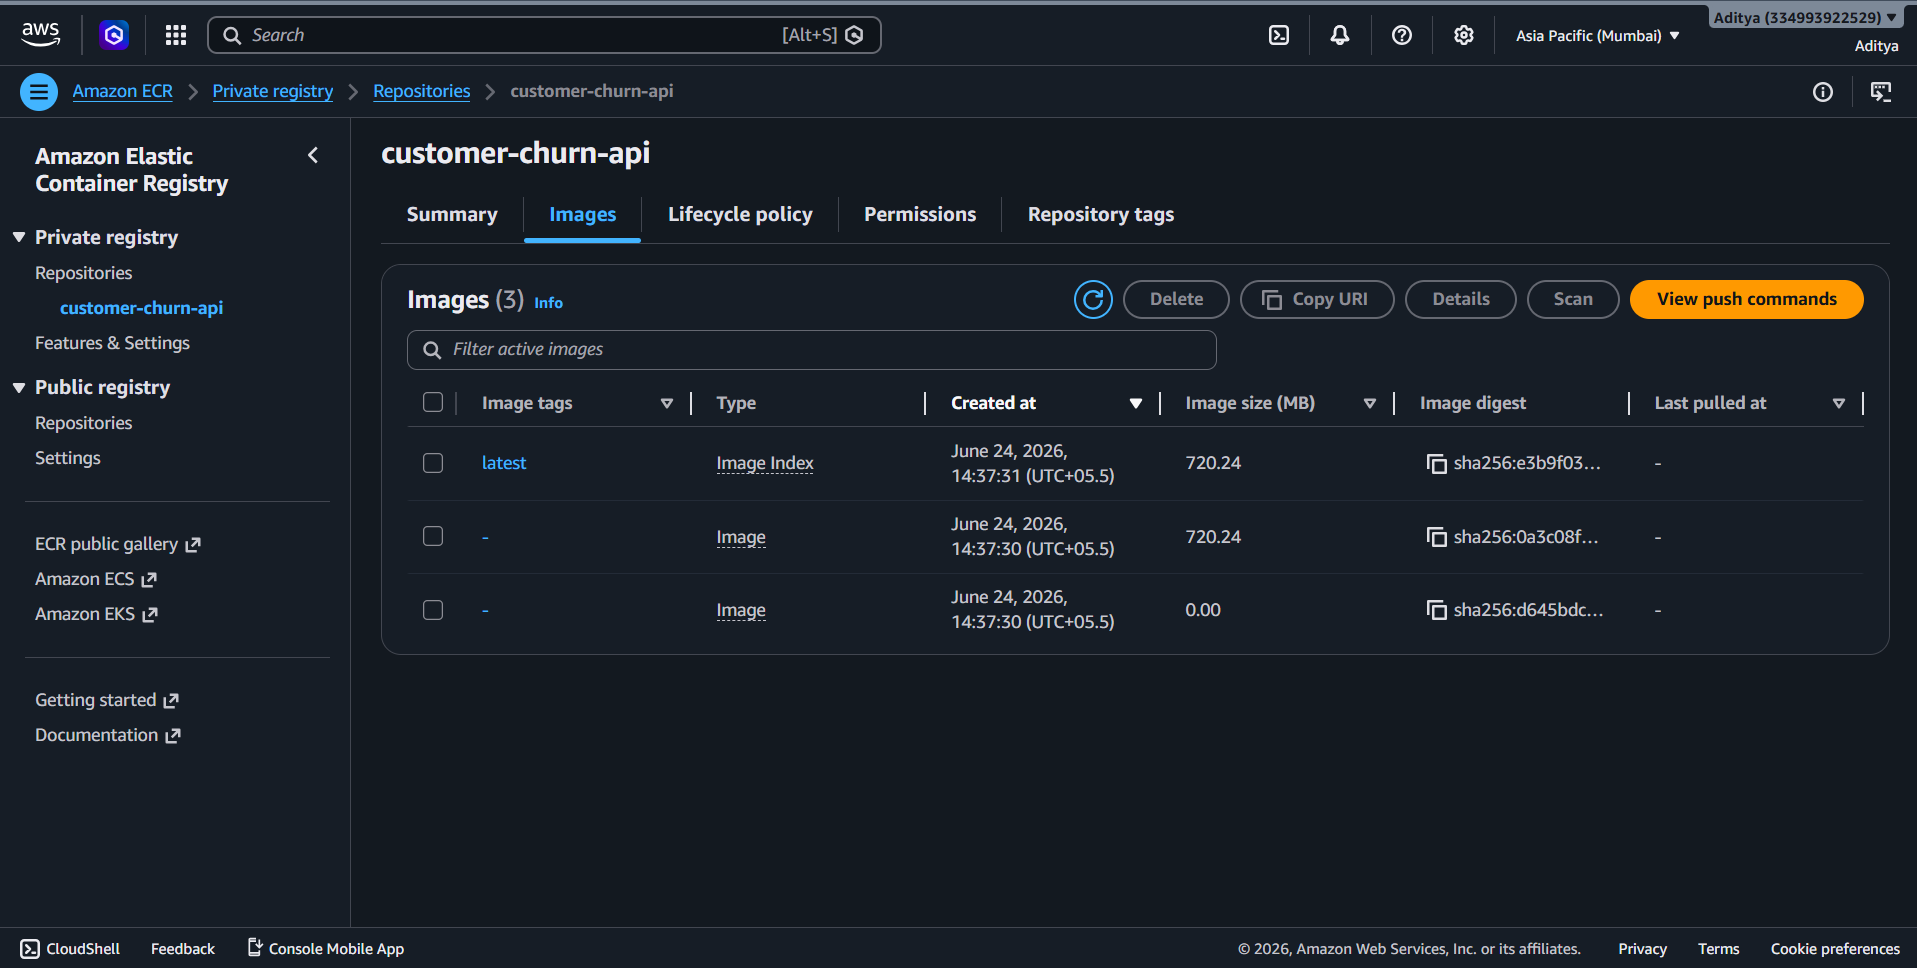
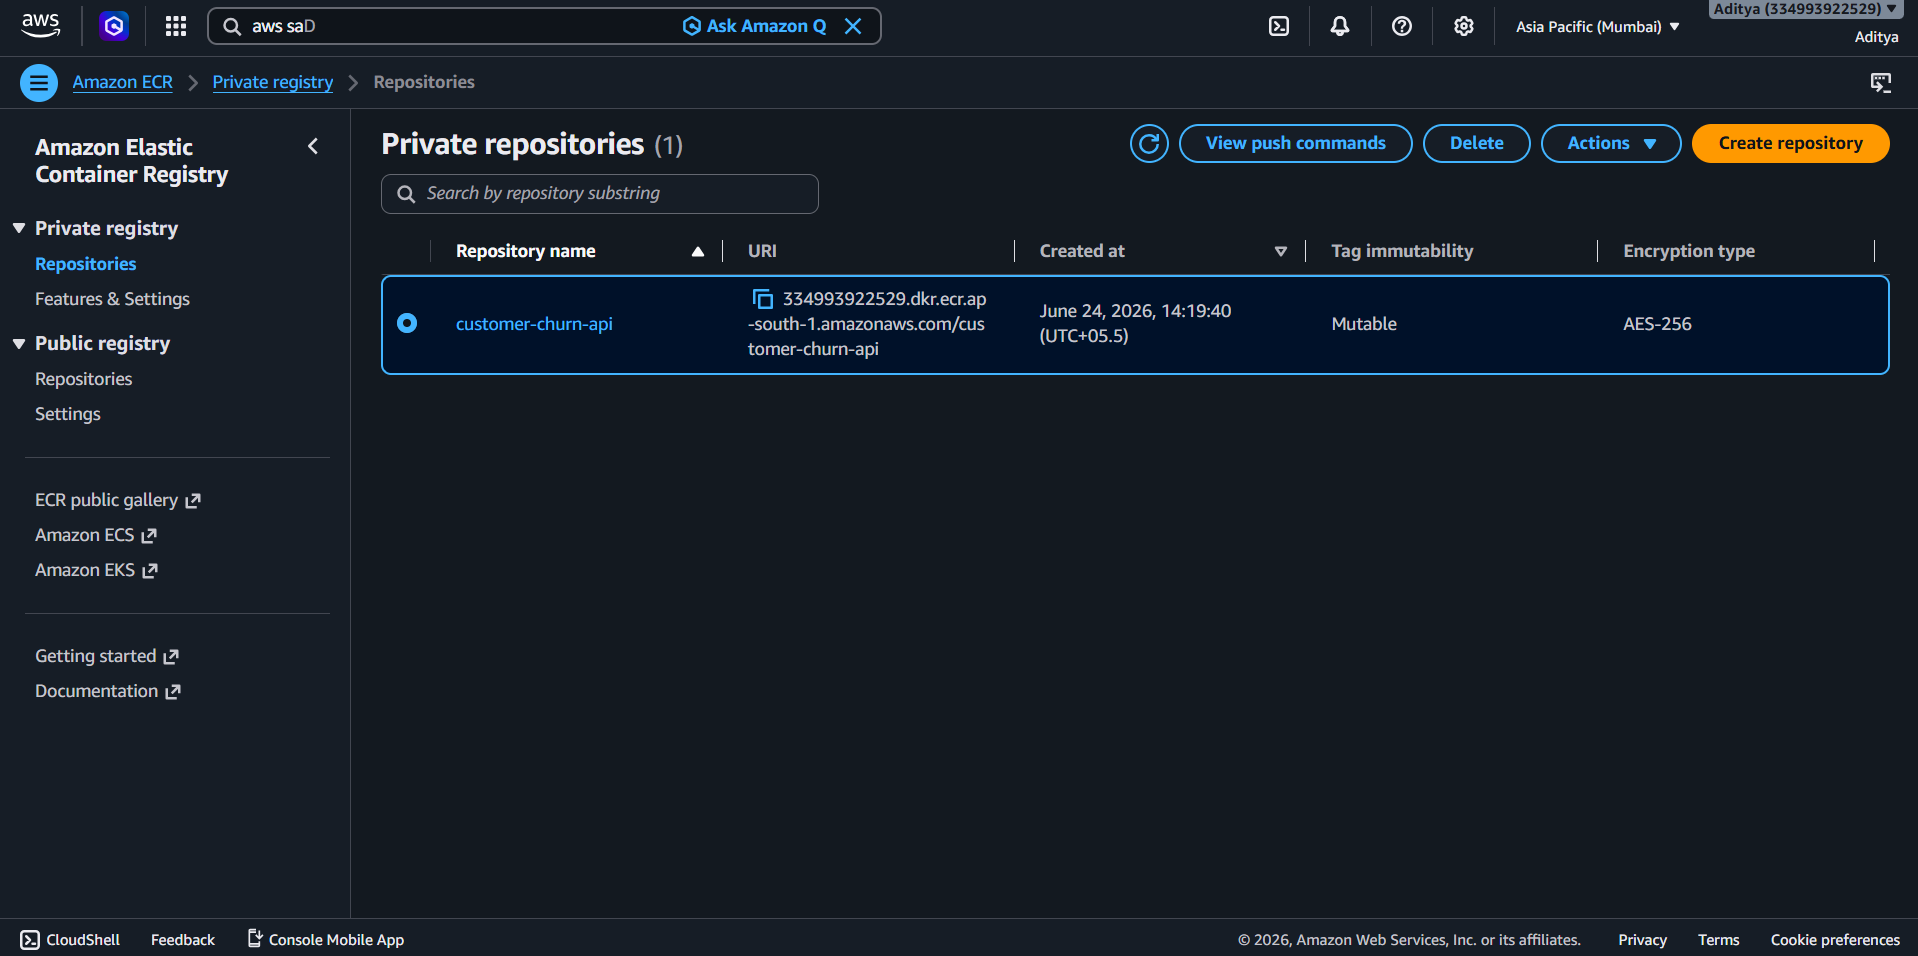
Adding Final Changes

diff --git a/README.md b/README.md
@@ -285,13 +285,13 @@ Numeric features are examined for their correlation with the churn label. Monthl
 <tr>
 <td width="50%">
 
-### ECS Service Monitoring
+### Churn Distribution
 <img src="images/churn_distribution.png" alt="Churn Distribution" width="100%">
 
 </td>
 <td width="50%">
 
-### Load Balancer Metrics
+### Contract vs Churn
 <img src="images/contract_vs_churn.png" alt="Contract vs Churn" width="100%">
 
 </td>
@@ -302,14 +302,14 @@ Numeric features are examined for their correlation with the churn label. Monthl
 <tr>
 <td width="50%">
 
-### ECS Service Monitoring
+### Feature Importance
 <img src="images/feature_importance.png" alt="Feature Importance" width="100%">
 
 </td>
 <td width="50%">
 
-### Load Balancer Metrics
-<img src="images/shap_summary.png" alt="Load Balancer Metrics" width="100%">
+### Shap Summary
+<img src="images/shap_summary.png" alt="Shap Summary" width="100%">
 
 </td>
 </tr>
@@ -523,7 +523,7 @@ docker run -p 8000:8000 customer-churn-api
 ```
 ## Docker Engine
 
-![Docker Images](images/docker_image.png)
+![Docker Images](images/docker_images.png)
 
 After running these commands, the API is accessible at `http://localhost:8000`. The container includes everything needed — Python runtime, installed packages, model artifacts — and nothing beyond what is necessary.
 